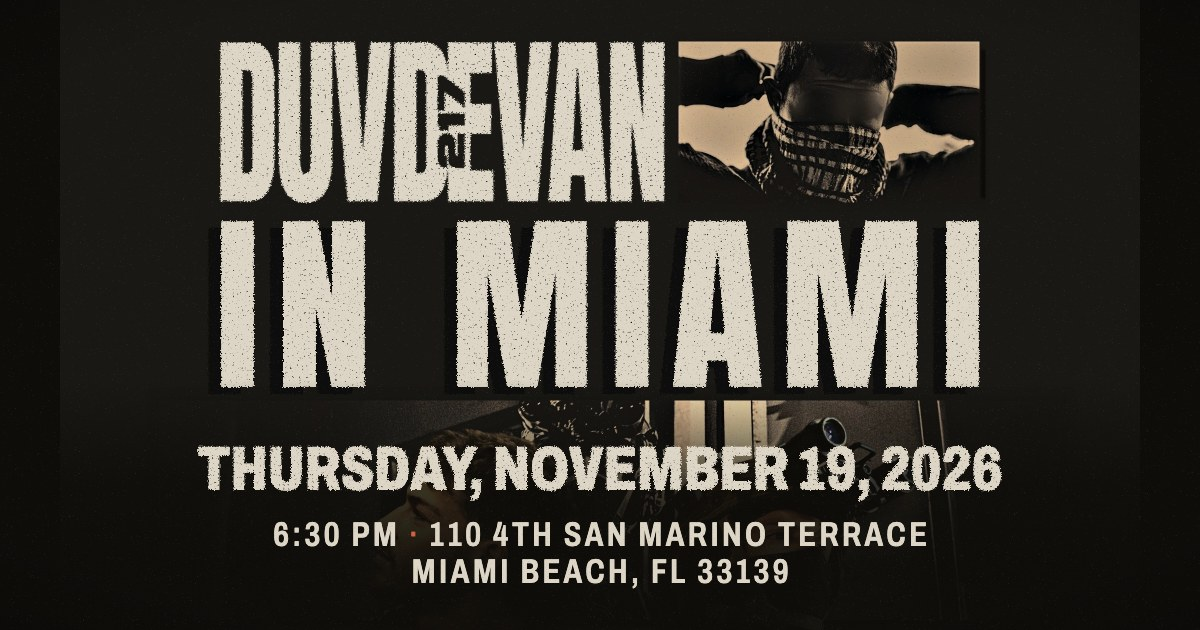
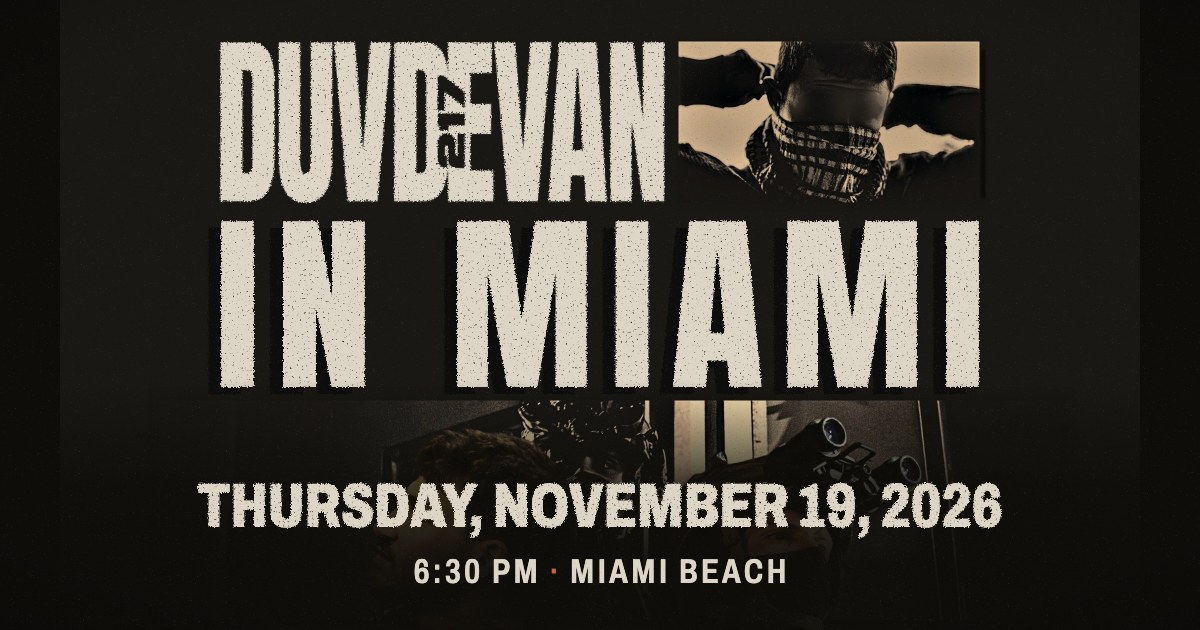
Miami: RSVP on Luma (approval required), address kept private until approval

Changed region(s): [[0.1542, 0.6937, 0.8325, 0.9349]]

diff --git a/src/content/editions.ts b/src/content/editions.ts
@@ -190,7 +190,7 @@ export const editions: Record<string, Edition> = {
       description:
         'An evening with Friends of Duvdevan in Miami Beach on November 19, 2026, hosted by Norman Cohen and Alex Berenbaum, in support of the soldiers, veterans and bereaved families of the unit.',
       ogTitle: 'Duvdevan in Miami',
-      ogDescription: 'An evening with Friends of Duvdevan. Thursday, November 19, 2026, at 6:30 pm, 110 4th San Marino Terrace, Miami Beach. Hosted by Norman Cohen and Alex Berenbaum.',
+      ogDescription: 'An evening with Friends of Duvdevan. Thursday, November 19, 2026, at 6:30 pm, Miami Beach. Hosted by Norman Cohen and Alex Berenbaum.',
       ogImageAlt: 'Duvdevan in Miami. Thursday, November 19, 2026, 6:30 pm, Miami Beach',
     },
     event: {
@@ -200,12 +200,12 @@ export const editions: Record<string, Edition> = {
       tagline: 'Thursday, November 19, 2026 · 6:30 pm',
       hud: { ref: '25°47′N 80°09′W', op: 'Miami Beach · 11.19.26' },
     },
-    host: { label: 'Hosted by', names: 'Norman Cohen & Alex Berenbaum', address: '110 4th San Marino Terrace, Miami Beach, FL 33139' },
-    rsvp: { url: '', label: 'RSVP', short: 'November 19' },
+    host: { label: 'Hosted by', names: 'Norman Cohen & Alex Berenbaum', address: 'Miami Beach · Address sent once your RSVP is approved' },
+    rsvp: { url: 'https://luma.com/k0ehbibm', label: 'RSVP', short: 'November 19' },
     stop: { name: 'Miami Beach · November 19', lon: -80.16, lat: 25.79 },
     closingLead:
-      'Hosted by Norman Cohen and Alex Berenbaum at 110 4th San Marino Terrace, Miami Beach. Join us on November 19 at 6:30 pm, and stand with the soldiers, veterans and bereaved families of the unit.',
-    footer: 'Duvdevan in Miami · November 19, 2026, 6:30 pm · 110 4th San Marino Terrace, Miami Beach, FL 33139',
+      'Hosted by Norman Cohen and Alex Berenbaum in Miami Beach. Join us on November 19 at 6:30 pm, and stand with the soldiers, veterans and bereaved families of the unit.',
+    footer: 'Duvdevan in Miami · November 19, 2026, 6:30 pm · Miami Beach',
     gathering: {
       heading: 'The evening',
       intro:
